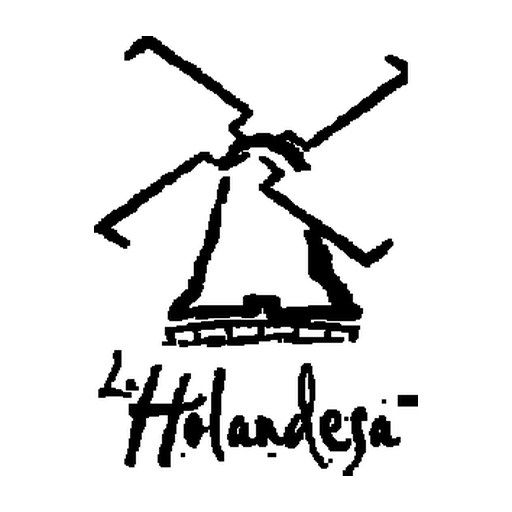
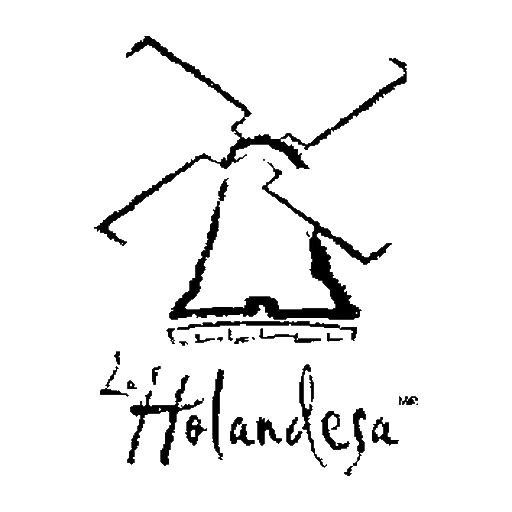
Versión 30.6.10: ícono del comandero con trazo más delgado
Claude-Session: https://claude.ai/code/session_01QiXp5pKvjoUfmzL1EtQSHV

Changed region(s): [[0.1875, 0.0625, 0.8125, 0.9375]]

diff --git a/comandero.html b/comandero.html
@@ -2,7 +2,7 @@
 <title>La Holandesa Comandero</title>
 <link rel="manifest" href="/manifest-comandero.webmanifest">
 <link rel="apple-touch-icon" href="/icono_comandero_180.png">
[2 lines of base64/hex data omitted]
 <meta name="apple-mobile-web-app-title" content="Holandesa Comandero">
 <meta name="application-name" content="Holandesa Comandero">
 <meta name="apple-mobile-web-app-capable" content="yes">

diff --git a/holandesa_monitor.py b/holandesa_monitor.py
@@ -14,8 +14,8 @@ import os, re, sys, json, gzip, glob, time, base64, struct, hashlib, secrets, th
 from http.server import ThreadingHTTPServer, BaseHTTPRequestHandler
 
 AQUI = os.path.dirname(os.path.abspath(__file__))
-VERSION = 83            # número interno que compara la actualización automática (siempre entero, sube de 1 en 1)
-VERSION_TXT = '30.6.9'    # versión que se muestra: 24.1, 24.2… y 25.0 cuando hay un cambio grande
+VERSION = 84            # número interno que compara la actualización automática (siempre entero, sube de 1 en 1)
+VERSION_TXT = '30.6.10'    # versión que se muestra: 24.1, 24.2… y 25.0 cuando hay un cambio grande
 REPO_RAW = 'https://raw.githubusercontent.com/Jorge-1639/monitor-holandesa/main/'
 CONFIG_FILE = os.path.join(AQUI, 'config.json')
 LOG_FILE = os.path.join(AQUI, 'monitor.log')

diff --git a/README.md b/README.md
@@ -142,3 +142,5 @@ y Chrome no dejaba instalarlo aparte (salía "Crear acceso directo" con una letr
 Versión 30.6.8 — íconos: Control Holandesa con el logo a todo color sobre blanco; Holandesa Comandero con el logo todo en negro sobre blanco.
 
 Versión 30.6.9 — ícono del comandero: solo el contorno del molino y las letras "La Holandesa" en negro, sin la mancha verde ni la franja de Restaurante, fondo blanco.
+
+Versión 30.6.10 — ícono del comandero con trazo más delgado: solo el negro del logo, sin mezclar el naranja.
